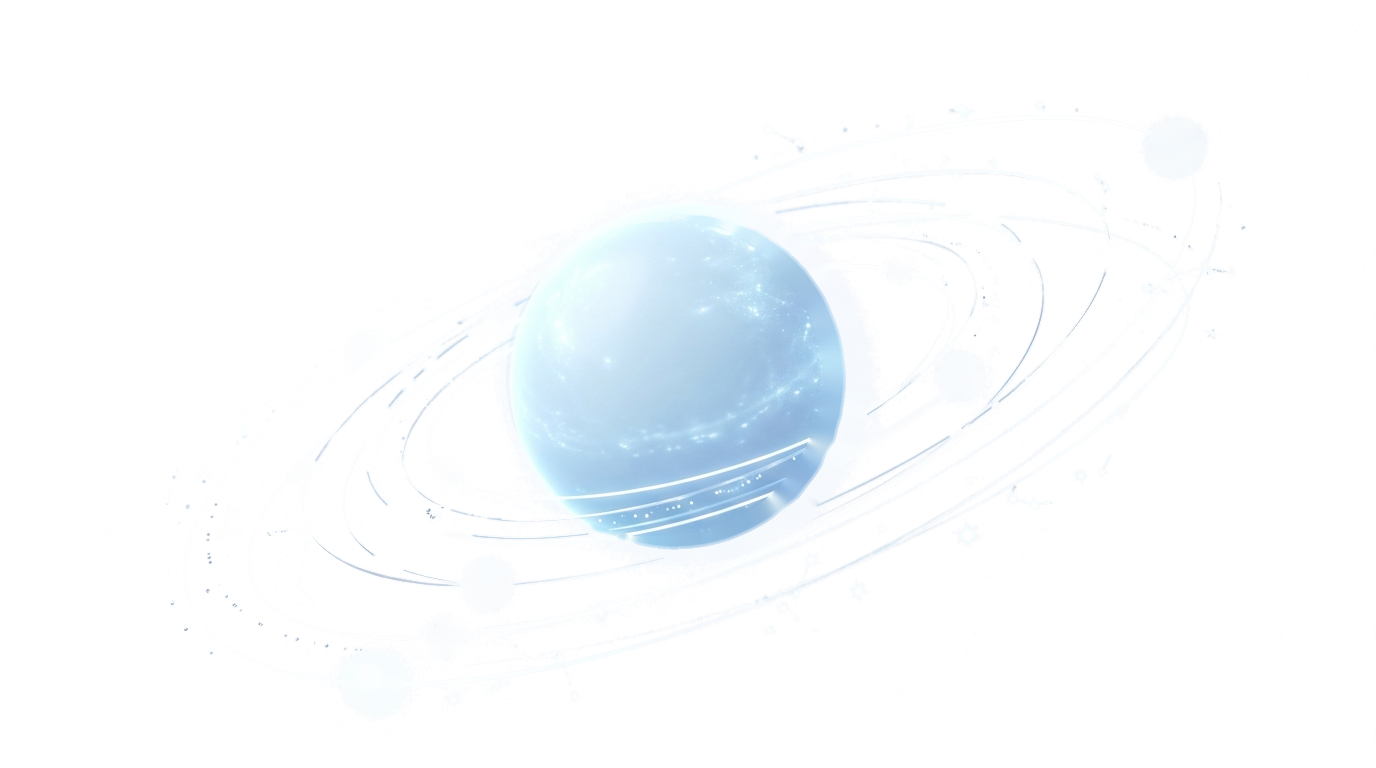
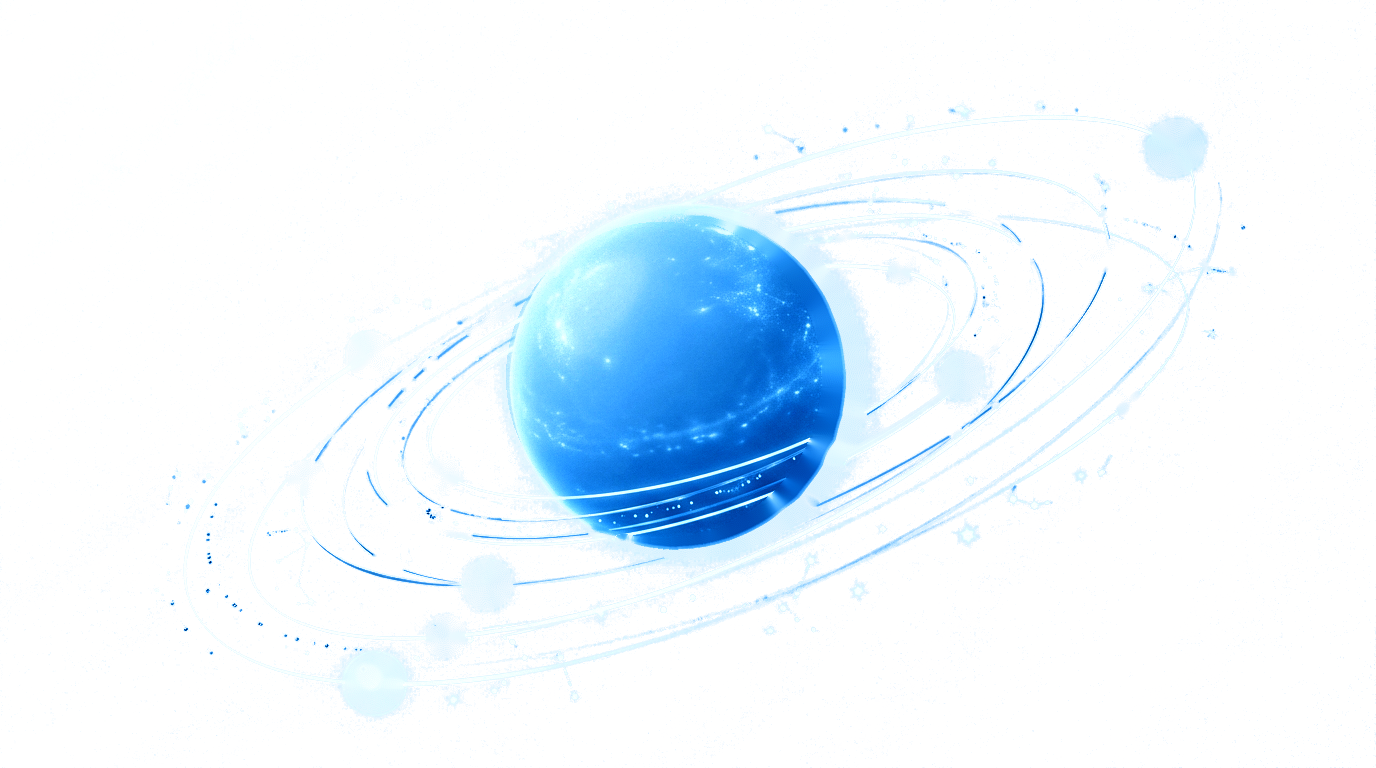
Enhance contrast, vibrance, backlight aura, and visible orbit paths on Events planetary sphere visual

diff --git a/src/components/sections/EventsFanDeck.tsx b/src/components/sections/EventsFanDeck.tsx
@@ -94,8 +94,12 @@ export const EventsFanDeck: React.FC = () => {
             </motion.div>
           </div>
 
-          {/* Right Column: 3D Floating Planetary Sphere & Animated Orbiting Spheres */}
-          <div className="lg:col-span-6 relative flex items-center justify-center min-h-[300px] sm:min-h-[360px] lg:min-h-[400px] overflow-visible">
+          {/* Right Column: 3D Floating Planetary Sphere & Animated Orbiting Spheres (Bright & Luminous) */}
+          <div className="lg:col-span-6 relative flex items-center justify-center min-h-[320px] sm:min-h-[380px] lg:min-h-[420px] overflow-visible">
+            
+            {/* Luminous Glowing Backlight Aura behind Sphere */}
+            <div className="absolute w-[360px] h-[360px] sm:w-[440px] sm:h-[440px] rounded-full bg-radial from-sky-400/40 via-[#0284C7]/20 to-transparent blur-3xl pointer-events-none" />
+
             <motion.div
               animate={{
                 y: [-6, 6, -6],
@@ -105,13 +109,13 @@ export const EventsFanDeck: React.FC = () => {
                 repeat: Infinity,
                 ease: 'easeInOut',
               }}
-              className="relative w-full max-w-[480px] lg:max-w-[540px] aspect-[16/11] flex items-center justify-center select-none mx-auto"
+              className="relative w-full max-w-[500px] lg:max-w-[560px] aspect-[16/11] flex items-center justify-center select-none mx-auto"
             >
-              {/* Planetary Artwork */}
+              {/* Enhanced Planetary Artwork (Vibrant contrast, glowing sapphire depth) */}
               <img
                 src="/events-hero-sphere.png"
                 alt="3D Floating Planetary Sphere with Orbital Rings"
-                className="w-full h-full object-contain pointer-events-none select-none relative z-10 filter drop-shadow-[0_12px_32px_rgba(2,132,199,0.18)]"
+                className="w-full h-full object-contain pointer-events-none select-none relative z-10 filter drop-shadow-[0_20px_45px_rgba(2,132,199,0.35)] contrast-[1.15] brightness-[1.05]"
               />
 
               {/* Animated Orbiting Spheres SVG Overlay */}
@@ -124,21 +128,21 @@ export const EventsFanDeck: React.FC = () => {
                   {/* Sphere 3D Radial Gradient */}
                   <radialGradient id="orbitBallGrad" cx="35%" cy="35%" r="65%">
                     <stop offset="0%" stopColor="#FFFFFF" />
-                    <stop offset="25%" stopColor="#7DD3FC" />
-                    <stop offset="70%" stopColor="#0284C7" />
+                    <stop offset="20%" stopColor="#7DD3FC" />
+                    <stop offset="60%" stopColor="#0284C7" />
                     <stop offset="100%" stopColor="#0369A1" />
                   </radialGradient>
                   
                   <radialGradient id="orbitBallCyan" cx="35%" cy="35%" r="65%">
-                    <stop offset="0%" stopColor="#E0F2FE" />
-                    <stop offset="35%" stopColor="#38BDF8" />
-                    <stop offset="80%" stopColor="#0284C7" />
+                    <stop offset="0%" stopColor="#FFFFFF" />
+                    <stop offset="30%" stopColor="#38BDF8" />
+                    <stop offset="75%" stopColor="#0284C7" />
                     <stop offset="100%" stopColor="#0C4A6E" />
                   </radialGradient>
 
                   {/* Sphere 3D Glow & Shadow Filter */}
                   <filter id="orbitGlow" x="-50%" y="-50%" width="200%" height="200%">
-                    <feDropShadow dx="0" dy="3" stdDeviation="5" floodColor="#0284C7" floodOpacity="0.6" />
+                    <feDropShadow dx="0" dy="3" stdDeviation="6" floodColor="#0284C7" floodOpacity="0.75" />
                   </filter>
 
                   {/* Concentric Elliptical Paths matching -26deg planetary tilt on 1376x768 */}
@@ -162,20 +166,27 @@ export const EventsFanDeck: React.FC = () => {
 
                 {/* Rotated Group aligning orbits to the ring tilt */}
                 <g transform="rotate(-26 706 400)">
+                  
+                  {/* Visible Glowing Orbit Ellipses */}
+                  <ellipse cx="706" cy="400" rx="670" ry="220" stroke="#0284C7" strokeWidth="1.2" strokeOpacity="0.35" fill="none" />
+                  <ellipse cx="706" cy="400" rx="560" ry="185" stroke="#38BDF8" strokeWidth="1.2" strokeDasharray="6 6" strokeOpacity="0.45" fill="none" />
+                  <ellipse cx="706" cy="400" rx="440" ry="145" stroke="#0284C7" strokeWidth="1.4" strokeOpacity="0.4" fill="none" />
+                  <ellipse cx="706" cy="400" rx="340" ry="112" stroke="#38BDF8" strokeWidth="1" strokeDasharray="4 4" strokeOpacity="0.5" fill="none" />
+
                   {/* --- OUTER RING SPHERES --- */}
                   <g filter="url(#orbitGlow)">
                     <animateMotion dur="18s" repeatCount="indefinite">
                       <mpath href="#outerOrbitPath" />
                     </animateMotion>
-                    <circle r="18" fill="url(#orbitBallGrad)" />
-                    <circle r="25" stroke="#38BDF8" strokeWidth="1.5" strokeOpacity="0.45" />
+                    <circle r="19" fill="url(#orbitBallGrad)" />
+                    <circle r="26" stroke="#38BDF8" strokeWidth="1.5" strokeOpacity="0.6" />
                   </g>
 
                   <g filter="url(#orbitGlow)">
                     <animateMotion dur="18s" begin="-9s" repeatCount="indefinite">
                       <mpath href="#outerOrbitPath" />
                     </animateMotion>
-                    <circle r="13" fill="url(#orbitBallCyan)" />
+                    <circle r="14" fill="url(#orbitBallCyan)" />
                   </g>
 
                   {/* --- MID-OUTER RING SPHERES --- */}
@@ -183,15 +194,15 @@ export const EventsFanDeck: React.FC = () => {
                     <animateMotion dur="14s" repeatCount="indefinite">
                       <mpath href="#midOuterOrbitPath" />
                     </animateMotion>
-                    <circle r="15" fill="url(#orbitBallGrad)" />
-                    <circle r="21" stroke="#38BDF8" strokeWidth="1.2" strokeOpacity="0.35" />
+                    <circle r="16" fill="url(#orbitBallGrad)" />
+                    <circle r="22" stroke="#38BDF8" strokeWidth="1.3" strokeOpacity="0.5" />
                   </g>
 
                   <g filter="url(#orbitGlow)">
                     <animateMotion dur="14s" begin="-7s" repeatCount="indefinite">
                       <mpath href="#midOuterOrbitPath" />
                     </animateMotion>
-                    <circle r="11" fill="url(#orbitBallCyan)" />
+                    <circle r="12" fill="url(#orbitBallCyan)" />
                   </g>
 
                   {/* --- MID-INNER RING SPHERES --- */}
@@ -199,14 +210,14 @@ export const EventsFanDeck: React.FC = () => {
                     <animateMotion dur="10.5s" repeatCount="indefinite">
                       <mpath href="#midInnerOrbitPath" />
                     </animateMotion>
-                    <circle r="14" fill="url(#orbitBallGrad)" />
+                    <circle r="15" fill="url(#orbitBallGrad)" />
                   </g>
 
                   <g filter="url(#orbitGlow)">
                     <animateMotion dur="10.5s" begin="-5.25s" repeatCount="indefinite">
                       <mpath href="#midInnerOrbitPath" />
                     </animateMotion>
-                    <circle r="10" fill="url(#orbitBallCyan)" />
+                    <circle r="11" fill="url(#orbitBallCyan)" />
                   </g>
 
                   {/* --- INNER RING SPHERES --- */}
@@ -214,14 +225,14 @@ export const EventsFanDeck: React.FC = () => {
                     <animateMotion dur="7.5s" repeatCount="indefinite">
                       <mpath href="#innerOrbitPath" />
                     </animateMotion>
-                    <circle r="12" fill="url(#orbitBallGrad)" />
+                    <circle r="13" fill="url(#orbitBallGrad)" />
                   </g>
 
                   <g filter="url(#orbitGlow)">
                     <animateMotion dur="7.5s" begin="-3.75s" repeatCount="indefinite">
                       <mpath href="#innerOrbitPath" />
                     </animateMotion>
-                    <circle r="9" fill="url(#orbitBallCyan)" />
+                    <circle r="10" fill="url(#orbitBallCyan)" />
                   </g>
                 </g>
               </svg>
